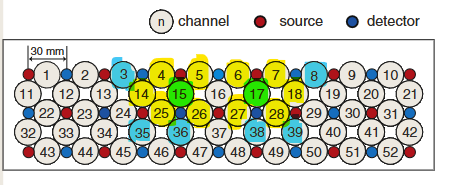
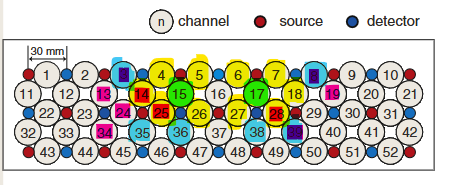
[logseq-plugin-git:commit] 2024-10-30T01:36:21.534Z

diff --git a/pages/brodmann areas.md b/pages/brodmann areas.md
@@ -15,8 +15,9 @@
 - [[brodmann area 9]] and [[brodmann area 46]]
 	- part of [[Dorsolateral Prefrontal Cortex]]
 	- [[fNIRS]] channels arrangement used by [[An adaptive block-design paradigm with a novel deep learning-assisted approach for better cognitive load estimation]]
-		- ![image.png](../assets/image_1727807599031_0.png)
+		- ![image.png](../assets/image_1727807599031_0.png){:height 193, :width 450}
 			- green: center of [[Dorsomedial Prefrontal Cortex]]
+			- pink/purple: channels used by [[Optimizing Mental Workload Estimation by Detecting Baseline State Using Vector Phase Analysis Approach]]
 		- ![image.png](../assets/image_1719249180786_0.png){:height 720, :width 369}
 		-
 		- ![image.png](../assets/image_1720292183995_0.png)

diff --git a/pages/hemodynamic response function.md b/pages/hemodynamic response function.md
@@ -5,7 +5,6 @@ alias:: HRF
 	- O: the onset
 	- W: full width at half maximum
 	- H: maximum signal change during the peri-stimulus time window
+- ![image.png](../assets/image_1729357611652_0.png){:height 507, :width 428}
 - When neurons are active, [[BOLD]] signal provided by [[MRI]] will rise after 6-12 seconds
 	- [[BOLD]] signal peak after 5-6 seconds
-- three gamma function
-	- ![image.png](../assets/image_1729010709029_0.png)
